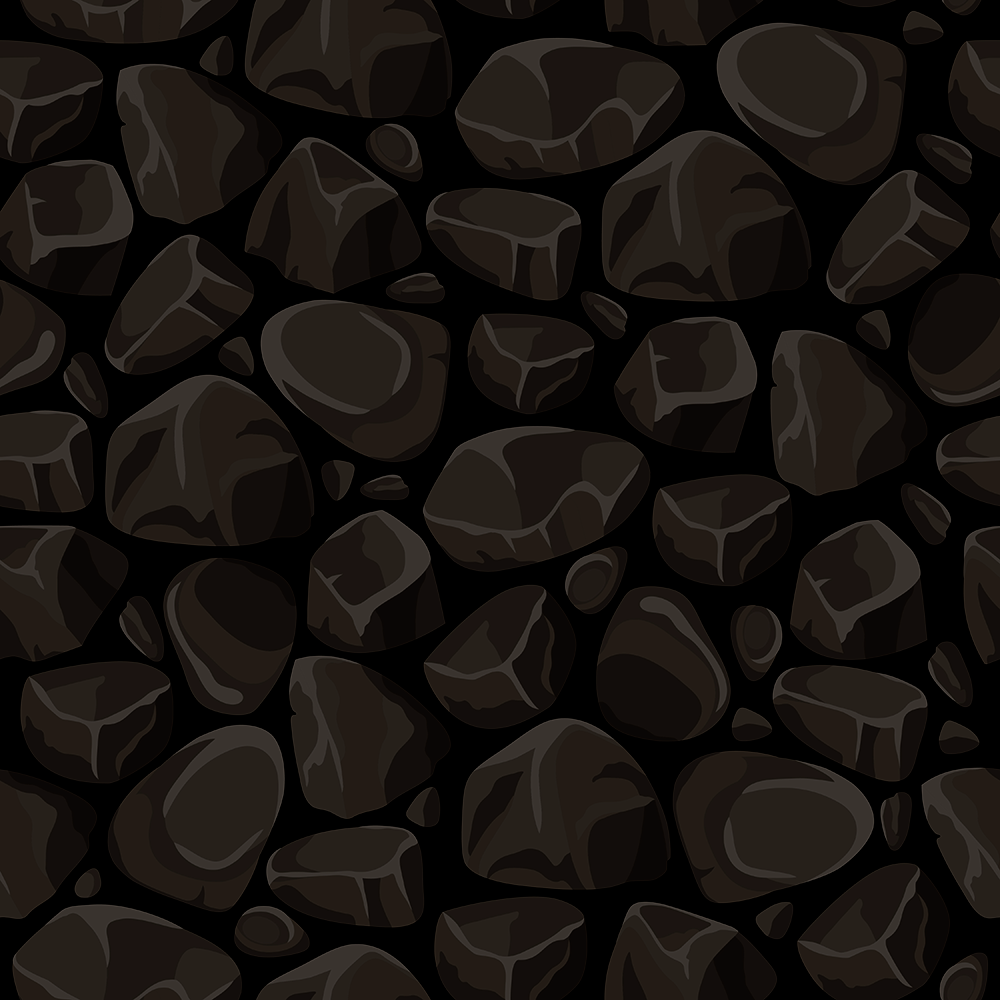
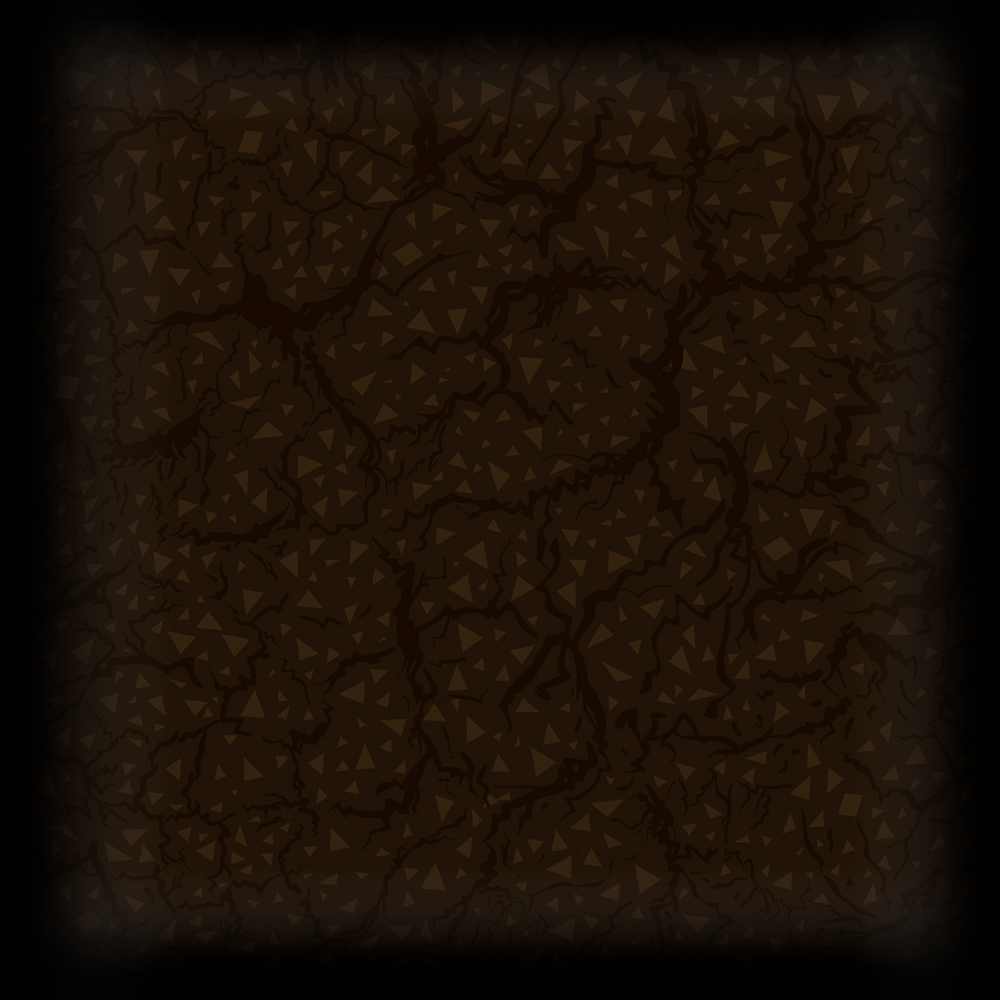
мертвые враги

diff --git a/js/update-render-loop.js b/js/update-render-loop.js
@@ -247,6 +247,7 @@
             Sounds.hit();
             addParticles(g.x, g.y, CONFIG.HIT_PARTICLES_COUNT, CONFIG.HIT_PARTICLES_SPEED, CONFIG.HIT_PARTICLES_LIFE, '#44cc22');
             if (g.hp <= 0) {
+              spawnCorpse(s.deathCorpses, g, g.radius || CONFIG.SPIDER_RADIUS);
               s.activeSpiders.splice(j, 1);
               for (let k = 0; k < CONFIG.DEATH_PARTICLES_COUNT; k++) {
                 const speed = CONFIG.DEATH_PARTICLES_SPEED_MIN + Math.random() * (CONFIG.DEATH_PARTICLES_SPEED_MAX - CONFIG.DEATH_PARTICLES_SPEED_MIN);
@@ -308,6 +309,7 @@
             g.stuckTimer += dt;
             if (g.stuckTimer >= 5) {
               // Враг застрял на 5 секунд - умирает
+              spawnCorpse(s.deathCorpses, g, g.radius || CONFIG.SPIDER_RADIUS);
               s.activeSpiders.splice(i, 1);
               for (let k = 0; k < CONFIG.DEATH_PARTICLES_COUNT; k++) {
                 const speed = CONFIG.DEATH_PARTICLES_SPEED_MIN + Math.random() * (CONFIG.DEATH_PARTICLES_SPEED_MAX - CONFIG.DEATH_PARTICLES_SPEED_MIN);
@@ -445,6 +447,7 @@
           
           // Проверка касания игрока (для состояний chase/rest)
           if (g.state !== 'dash' && dist < hitDist) {
+            spawnCorpse(s.deathCorpses, g, g.radius || CONFIG.BULL_RADIUS);
             dealPlayerDamage(s, false);
             s.activeSpiders.splice(i, 1);
             for (let k = 0; k < CONFIG.PLAYER_HIT_PARTICLES_COUNT; k++) {
@@ -498,6 +501,7 @@
           }
           // Касание игрока
           if (dist < (g.radius || CONFIG.BULDYGA_RADIUS) + CONFIG.PLAYER_RADIUS) {
+            spawnCorpse(s.deathCorpses, g, g.radius || CONFIG.BULDYGA_RADIUS);
             dealPlayerDamage(s, false);
             s.activeSpiders.splice(i, 1);
             for (let k = 0; k < CONFIG.PLAYER_HIT_PARTICLES_COUNT; k++) {
@@ -596,6 +600,7 @@
           }
           // Касание игрока
           if (dist < (g.radius || CONFIG.SPIDER_RADIUS) + CONFIG.PLAYER_RADIUS) {
+            spawnCorpse(s.deathCorpses, g, g.radius || CONFIG.SPIDER_RADIUS);
             dealPlayerDamage(s, false);
             s.activeSpiders.splice(i, 1);
             for (let k = 0; k < CONFIG.PLAYER_HIT_PARTICLES_COUNT; k++) {
@@ -707,6 +712,12 @@
           returnParticle(p);
           s.particles.splice(i, 1);
         }
+      }
+
+      // Обновление трупов в play режиме
+      for (let i = s.deathCorpses.length - 1; i >= 0; i--) {
+        s.deathCorpses[i].life -= dt;
+        if (s.deathCorpses[i].life <= 0) s.deathCorpses.splice(i, 1);
       }
 
       // Летящее сердечко
@@ -895,6 +906,21 @@
         ctx.fill();
       }
       ctx.shadowBlur = 0;
+
+      // Трупы врагов в battle (фейдаут)
+      for (const c of b.deathCorpses) {
+        const alpha = Math.max(0, c.life / c.maxLife);
+        const isSoldier = c.type === 'soldier' || c.type === 'chaser';
+        const isPlevaka = c.type === 'plevaka' || c.type === 'shooter';
+        const isBull = c.type === 'bull';
+        const isBuldyga = c.type === 'buldyga';
+        let img = null;
+        if (isSoldier) img = enemyImages.soldier_dead;
+        else if (isPlevaka) img = enemyImages.plevaka_dead;
+        else if (isBull) img = enemyImages.bull_dead;
+        else if (isBuldyga) img = enemyImages.buldyga_dead;
+        if (img) drawEnemySprite(img, c.x, c.y, c.radius / BATTLE_SCALE, alpha, BATTLE_SCALE, 0);
+      }
 
       // Враги в battle (масштабированы)
       for (const g of b.activeSpiders) {
@@ -1453,6 +1479,21 @@
         ctx.fill();
       }
       ctx.shadowBlur = 0;
+
+      // Трупы врагов в play режиме (фейдаут)
+      for (const c of s.deathCorpses) {
+        const alpha = Math.max(0, c.life / c.maxLife);
+        const isSoldier = c.type === 'soldier' || c.type === 'chaser';
+        const isPlevaka = c.type === 'plevaka' || c.type === 'shooter';
+        const isBull = c.type === 'bull';
+        const isBuldyga = c.type === 'buldyga';
+        let img = null;
+        if (isSoldier) img = enemyImages.soldier_dead;
+        else if (isPlevaka) img = enemyImages.plevaka_dead;
+        else if (isBull) img = enemyImages.bull_dead;
+        else if (isBuldyga) img = enemyImages.buldyga_dead;
+        if (img) drawEnemySprite(img, c.x, c.y, c.radius, alpha, 1, 0);
+      }
 
       // Активные пауки (выпущенные)
       for (const g of s.activeSpiders) {

diff --git a/js/combat-and-battle.js b/js/combat-and-battle.js
@@ -1,4 +1,25 @@
     // ============================================================
+    // DEATH CORPSE HELPER
+    // ============================================================
+    const CORPSE_DURATION = 2.0;
+
+    function spawnCorpse(corpseArray, g, radius) {
+      const type = g.type || 'soldier';
+      const hasDead = type === 'soldier' || type === 'chaser' ||
+                      type === 'plevaka' || type === 'shooter' ||
+                      type === 'bull' || type === 'buldyga';
+      if (!hasDead) return;
+      corpseArray.push({
+        x: g.x,
+        y: g.y,
+        type: type,
+        radius: radius,
+        life: CORPSE_DURATION,
+        maxLife: CORPSE_DURATION,
+      });
+    }
+
+    // ============================================================
     // UPGRADES
     // ============================================================
     let upgradePopupTimer = 0;
@@ -192,12 +213,14 @@
           s.enemyBullets.length = 0; // Очищаем массив вражеских пуль
         }
         
+        const corpseArray = isBattleMode ? s.battle.deathCorpses : s.deathCorpses;
         for (let i = enemiesArray.length - 1; i >= 0; i--) {
           const enemy = enemiesArray[i];
           if (!enemy || enemy.x === undefined || enemy.y === undefined) {
             enemiesArray.splice(i, 1);
             continue;
           }
+          spawnCorpse(corpseArray, enemy, (enemy.radius || CONFIG.SPIDER_RADIUS) * scale);
           // Создаем партиклы смерти врага
           for (let k = 0; k < CONFIG.DEATH_PARTICLES_COUNT; k++) {
             const a = Math.random() * Math.PI * 2;
@@ -788,6 +811,7 @@
               bullet.damage *= 2;
             }
             if (g.hp <= 0) {
+              spawnCorpse(b.deathCorpses, g, (g.radius || CONFIG.SPIDER_RADIUS) * BATTLE_SCALE);
               b.activeSpiders.splice(j, 1);
               for (let k = 0; k < CONFIG.DEATH_PARTICLES_COUNT; k++) {
                 const a = Math.random() * Math.PI * 2;
@@ -858,6 +882,7 @@
             g.stuckTimer += dt;
             if (g.stuckTimer >= 7) {
               // Враг застрял на 7 секунд - умирает
+              spawnCorpse(b.deathCorpses, g, (g.radius || CONFIG.SPIDER_RADIUS) * BATTLE_SCALE);
               b.activeSpiders.splice(i, 1);
               for (let k = 0; k < CONFIG.DEATH_PARTICLES_COUNT; k++) {
                 const speed = CONFIG.DEATH_PARTICLES_SPEED_MIN + Math.random() * (CONFIG.DEATH_PARTICLES_SPEED_MAX - CONFIG.DEATH_PARTICLES_SPEED_MIN);
@@ -1007,6 +1032,7 @@
           
           // Проверка касания игрока (для состояний chase/rest)
           if (g.state !== 'dash' && dist < hitDist) {
+            spawnCorpse(b.deathCorpses, g, (g.radius || CONFIG.BULL_RADIUS) * BATTLE_SCALE);
             dealPlayerDamage(s, true);
             b.activeSpiders.splice(i, 1);
             for (let k = 0; k < CONFIG.PLAYER_HIT_PARTICLES_COUNT; k++) {
@@ -1060,6 +1086,7 @@
           }
           // Касание игрока (масштабированное)
           if (dist < ((g.radius || CONFIG.BULDYGA_RADIUS) + CONFIG.PLAYER_RADIUS) * BATTLE_SCALE) {
+            spawnCorpse(b.deathCorpses, g, (g.radius || CONFIG.BULDYGA_RADIUS) * BATTLE_SCALE);
             dealPlayerDamage(s, true);
             b.activeSpiders.splice(i, 1);
             for (let k = 0; k < CONFIG.PLAYER_HIT_PARTICLES_COUNT; k++) {
@@ -1160,6 +1187,7 @@
           }
           // Касание игрока (масштабированное)
           if (dist < ((g.radius || CONFIG.SPIDER_RADIUS) + CONFIG.PLAYER_RADIUS) * BATTLE_SCALE) {
+            spawnCorpse(b.deathCorpses, g, (g.radius || CONFIG.SPIDER_RADIUS) * BATTLE_SCALE);
             dealPlayerDamage(s, true);
             b.activeSpiders.splice(i, 1);
             for (let k = 0; k < CONFIG.PLAYER_HIT_PARTICLES_COUNT; k++) {
@@ -1297,6 +1325,12 @@
           returnDamageNumber(dn);
           b.damageNumbers.splice(i, 1);
         }
+      }
+
+      // Обновление трупов в battle
+      for (let i = b.deathCorpses.length - 1; i >= 0; i--) {
+        b.deathCorpses[i].life -= dt;
+        if (b.deathCorpses[i].life <= 0) b.deathCorpses.splice(i, 1);
       }
 
       // Проверяем завершение боя: все враги убиты и содержимое ячейки собрано

diff --git a/js/game-state.js b/js/game-state.js
@@ -159,6 +159,14 @@
     enemyImages.bull.src     = 'img/bull.png';
     enemyImages.plevaka.src  = 'img/plevaka.png';
     enemyImages.soldier.src  = 'img/soldier.png';
+    enemyImages.buldyga_dead = new Image();
+    enemyImages.bull_dead    = new Image();
+    enemyImages.plevaka_dead = new Image();
+    enemyImages.soldier_dead = new Image();
+    enemyImages.buldyga_dead.src = 'img/buldyga_dead.png';
+    enemyImages.bull_dead.src    = 'img/bull_dead.png';
+    enemyImages.plevaka_dead.src = 'img/plevaka_dead.png';
+    enemyImages.soldier_dead.src = 'img/soldier_dead.png';
 
     // Weapon sprites
     const weaponImages = {
@@ -709,6 +717,7 @@
 
         spiders: trappedSpiders,
         activeSpiders: [], // враги которые были выпущены
+        deathCorpses: [],
         bullets: [],
         enemyBullets: [],
         shootCooldown: 0,

diff --git a/js/battle-setup.js b/js/battle-setup.js
@@ -197,6 +197,7 @@
         bullets: [],
         enemyBullets: [],
         particles: [],
+        deathCorpses: [],
         freezeTimer: s.upgrades.freeze ? 1.5 : 0, // Таймер заморозки врагов
         damageNumbers: [],
         player: {
@@ -589,6 +590,7 @@
         bullets: [],
         enemyBullets: [],
         particles: [],
+        deathCorpses: [],
         freezeTimer: s.upgrades.freeze ? 1.5 : 0,
         damageNumbers: [],
         player: {

diff --git a/js/save-input-start.js b/js/save-input-start.js
@@ -73,6 +73,7 @@
         weaponSlots: data.weaponSlots ? [...data.weaponSlots] : ['pistol', null],
         activeSlot: data.activeSlot || 0,
         maxSlots: data.maxSlots || 1,
+        deathCorpses: [],
         bullets: [],
         enemyBullets: [],
         particles: [],

diff --git a/todo.md b/todo.md
@@ -4,7 +4,10 @@
 телеграфирование быков
 препятствия
 пресеты комнат
-кд с курсором *
 музыка
 быков перенести на 3 уровень.
-цветовая палитра
+цветовая палитра интерфейса
+содержимое клеток по диагонали
+пол комнаты на разных уровнях
+смерть врагов спрайт.
+поворот врагов
